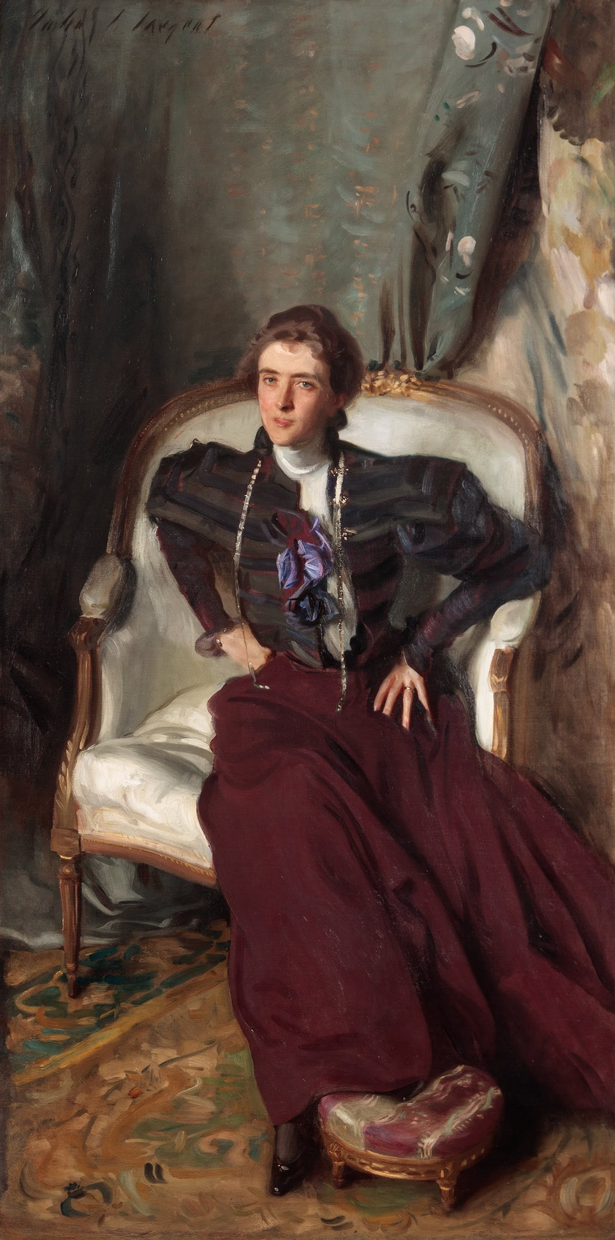
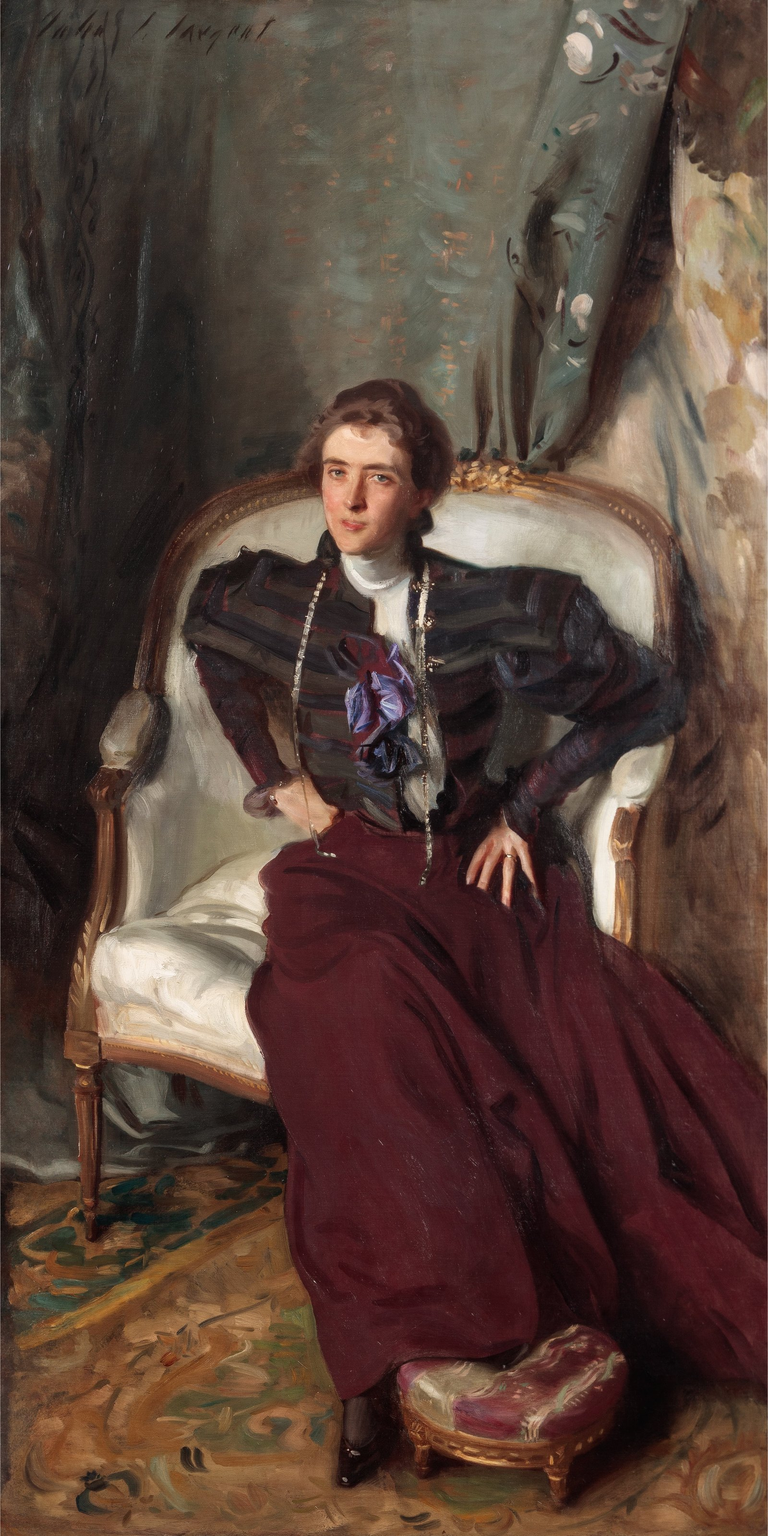
Mrs. Charles Thursby at full resolution, as zoom tiles
The painting is now 3184 x 6366 (every brushstroke and the canvas weave
show when zoomed in), served as a Deep Zoom pyramid so the viewer loads
only the tiles in view. Any painting can use one: tiles ending in .dzi
open as a pyramid, anything else as a single image as before.

The clue spots were re-measured against the new image, the eyebrow
pieces were placed on it exactly, and the separate sharp close-up of
her face is no longer needed (the face activity treats it as optional).

Claude-Session: https://claude.ai/code/session_01S4wwsUdvcBvdKa84k5387F

diff --git a/works.js b/works.js
@@ -40,13 +40,14 @@ window.MUSEUMS = [
 //     relight brightens a shadow's shape back to the lit color; patches cover it with nearby clean background
 //     (copied from sx,sy; a narrower source width sw is repeated across).
 //   face:{crop, erase, parts, up, down, presets, ask, rest, real, back} = move parts of a painted face (eyebrows).
-//     crop = a sharp close-up laid over the zoomed-in painting; parts = the painter's own strokes as see-through
+//     crop (optional) = a sharp close-up laid over the zoomed-in painting; parts = the painter's own strokes as see-through
 //     cut-outs (inner = which side is nearer the nose, line = where the stroke's middle runs at its inner end,
 //     middle and outer end, as fractions of the cut-out's height); erase = bare skin laid where they were painted;
 //     up, down = how far a point may go (fractions of the painting's height); presets = shapes to try, per part
 //     [inner, middle, outer], 1 = all the way up, -1 = all the way down; ask = questions shown in turn after a change.
 // Optional: role = its part in the visit (shown on the card), kind = "sculpture" etc. (default "painting"),
 // onView:false = not on display right now (card is darkened; still playable),
+// tiles = what the zoomable viewer opens: the image itself, or a .dzi zoom pyramid for a very detailed painting,
 // thumbPos = which part of a tall picture a wide thumbnail shows (CSS object-position; coverPos for a museum's cover).
 window.WORKS = [
   {
@@ -832,7 +833,7 @@ window.WORKS = [
     subtitle:"A bold pose, a purple bow, and two eyebrows that say a lot.",
     alt:"Mrs. Charles Thursby by John Singer Sargent: a woman in a dark striped jacket and a deep red skirt sits forward on the edge of a white armchair, hands on her hips, one foot on a footstool, looking straight at us",
     intro:"You've met Mrs. Thursby. Now let's look closely, from her shoes to her eyebrows.",
-    src:"images/mrs-charles-thursby.jpg", tiles:"images/mrs-charles-thursby.jpg", thumbPos:"50% 26%",
+    src:"images/mrs-charles-thursby.jpg", tiles:"images/mrs-charles-thursby.dzi", thumbPos:"50% 26%",
     music:"audio/salut-d-amour.mp3",
     prompts:[
       "Just look. This is Mrs. Thursby. She has been looking back at people for more than a hundred years.",
@@ -842,23 +843,21 @@ window.WORKS = [
       "Now look at the room around her. Which parts are sharp and clear? Which parts are quick and blurry?"
     ],
     stops:[
-      {find:"Can you find her purple bow?", cx:0.5, cy:0.455, box:{x:0.44, y:0.415, w:0.13, h:0.09}, title:"One bright spot", body:"Almost everything Mrs. Thursby wears is dark: a striped jacket and a deep red skirt. Then, right in the middle, a splash of purple! Sargent knew your eye would jump straight to it."},
-      {find:"Can you find the hand with a ring on it?", cx:0.65, cy:0.555, box:{x:0.59, y:0.52, w:0.12, h:0.075}, title:"Hands on her hips", body:"Both of her hands are on her hips, with her elbows poking out. Try it! How does it make you feel? Bossy? Brave? Ready for anything?"},
-      {find:"Can you find the little footstool?", cx:0.665, cy:0.915, box:{x:0.5, y:0.855, w:0.33, h:0.125}, title:"Ready to go", body:"One foot is up on a footstool, and she's sitting right on the edge of her chair. She isn't leaning back to rest. She looks like she might jump up any second. Where do you think she wants to go?"},
-      {find:"Can you find the long chain hanging from her neck?", cx:0.48, cy:0.46, box:{x:0.36, y:0.35, w:0.24, h:0.24}, areas:[{poly:[[0.395,0.362],[0.44,0.362],[0.425,0.45],[0.41,0.525],[0.37,0.525],[0.38,0.44]]},{x:0.532, y:0.362, w:0.045, h:0.22}], hint:"on both sides of her purple bow", title:"A long, long chain", body:"The chain loops around her neck and hangs all the way down to her waist. Look closely at how Sargent painted it: not link by link, but with quick little dashes of light paint."},
-      {find:"Can you find the white flowers on the curtain?", cx:0.76, cy:0.1, box:{x:0.66, y:0.0, w:0.24, h:0.26}, hint:"up high, on the right", title:"Flowers in a hurry", body:"From far away they're flowers. Up close, each one is only a few dabs of white paint! Sargent painted the room fast and loose, so that your eyes go to Mrs. Thursby instead."},
-      {find:"Sargent signed his name on this painting. Can you find it?", cx:0.2, cy:0.018, box:{x:0.0, y:0.0, w:0.42, h:0.07}, areas:[{x:0.02, y:0.0, w:0.36, h:0.04}], hint:"way up at the top, on the left", title:"John S. Sargent", body:"There it is, in the top corner, in dark paint on a dark wall: John S. Sargent. It almost hides in the shadows. He signed it with the same quick, loopy strokes he used for everything else."},
-      {find:"Sargent painted each eyebrow with one quick stroke. Drag them up or down, or tap a pair below. How does her face change?", cx:0.49, cy:0.304, box:{x:0.365, y:0.238, w:0.25, h:0.132},
+      {find:"Can you find her purple bow?", cx:0.4993, cy:0.4568, box:{x:0.4394, y:0.4166, w:0.1297, h:0.0904}, title:"One bright spot", body:"Almost everything Mrs. Thursby wears is dark: a striped jacket and a deep red skirt. Then, right in the middle, a splash of purple! Sargent knew your eye would jump straight to it."},
+      {find:"Can you find the hand with a ring on it?", cx:0.649, cy:0.5571, box:{x:0.5891, y:0.522, w:0.1198, h:0.0753}, title:"Hands on her hips", body:"Both of her hands are on her hips, with her elbows poking out. Try it! How does it make you feel? Bossy? Brave? Ready for anything?"},
+      {find:"Can you find the little footstool?", cx:0.664, cy:0.9185, box:{x:0.4993, y:0.8583, w:0.3293, h:0.1255}, title:"Ready to go", body:"One foot is up on a footstool, and she's sitting right on the edge of her chair. She isn't leaning back to rest. She looks like she might jump up any second. Where do you think she wants to go?"},
+      {find:"Can you find the long chain hanging from her neck?", cx:0.4793, cy:0.4618, box:{x:0.3596, y:0.3513, w:0.2395, h:0.2409}, areas:[{poly:[[0.3945,0.3634],[0.4394,0.3634],[0.4244,0.4517],[0.4095,0.527],[0.3696,0.527],[0.3795,0.4417]]},{x:0.5312, y:0.3634, w:0.0449, h:0.2209}], hint:"on both sides of her purple bow", title:"A long, long chain", body:"The chain loops around her neck and hangs all the way down to her waist. Look closely at how Sargent painted it: not link by link, but with quick little dashes of light paint."},
+      {find:"Can you find the white flowers on the curtain?", cx:0.7588, cy:0.1004, box:{x:0.659, y:0, w:0.2395, h:0.261}, hint:"up high, on the right", title:"Flowers in a hurry", body:"From far away they're flowers. Up close, each one is only a few dabs of white paint! Sargent painted the room fast and loose, so that your eyes go to Mrs. Thursby instead."},
+      {find:"Sargent signed his name on this painting. Can you find it?", cx:0.1999, cy:0.018, box:{x:0.0003, y:0, w:0.4192, h:0.0703}, areas:[{x:0.0203, y:0, w:0.3593, h:0.0402}], hint:"way up at the top, on the left", title:"John S. Sargent", body:"There it is, in the top corner, in dark paint on a dark wall: John S. Sargent. It almost hides in the shadows. He signed it with the same quick, loopy strokes he used for everything else."},
+      {find:"Sargent painted each eyebrow with one quick stroke. Drag them up or down, or tap a pair below. How does her face change?", cx:0.4893, cy:0.3052, box:{x:0.3646, y:0.2389, w:0.2495, h:0.1325},
         face:{ real:"Sargent's", back:"Put them back", rest:"These are the eyebrows Sargent painted.",
           ask:["How does she feel now?", "What is she thinking now?", "What would she say now?"],
-          // a sharp close-up of her face (soft at the edges), and where it sits on the painting
-          crop:{src:"images/thursby-face.webp", x:0.31543, y:0.20563, w:0.34689, h:0.19545},
           // bare skin for the place the eyebrows were painted
-          erase:{src:"images/thursby-brow-erase.png", x:0.41509, y:0.2946, w:0.10754, h:0.01267},
-          up:0.00813, down:0.00219,
+          erase:{src:"images/thursby-brow-erase.png", x:0.4146, y:0.2959, w:0.1071, h:0.0127},
+          up:0.0082, down:0.0022,
           // Sargent's two strokes: the one on our left, then the one on our right
-          parts:[ {src:"images/thursby-brow-l.png", x:0.41666, y:0.29538, w:0.04447, h:0.00751, inner:"right", line:[0.783,0.477,0.578]},
-                  {src:"images/thursby-brow-r.png", x:0.4709, y:0.29913, w:0.05046, h:0.00766, inner:"left", line:[0.488,0.439,0.613]} ],
+          parts:[ {src:"images/thursby-brow-l.png", x:0.4161, y:0.2967, w:0.0443, h:0.0075, inner:"right", line:[0.783,0.477,0.578]},
+                  {src:"images/thursby-brow-r.png", x:0.4702, y:0.3005, w:0.0503, h:0.0077, inner:"left", line:[0.488,0.439,0.613]} ],
           // shapes to try: both up and arched; inner ends down; inner ends up; one up and one down
           presets:[ [[0.75,1,0.6],[0.75,1,0.6]], [[-1,-0.35,0.55],[-1,-0.35,0.55]], [[0.85,0.3,-0.7],[0.85,0.3,-0.7]], [[0.5,0.9,0.6],[-0.8,-0.6,-0.3]] ] },
         title:"Two little strokes", body:"Eyebrows are tiny, but they do a lot of talking. Up high, and a face looks surprised. Down in the middle, grumpy. Up in the middle, worried. Sargent set Mrs. Thursby's low and steady, the way you look when you're sure of yourself."}

diff --git a/index.html b/index.html
@@ -7,7 +7,7 @@
 <script>
   // The app's version. When a newer one is published, a phone may still have this page saved;
   // version.json is always fetched fresh, and if it's newer the page reloads itself once.
-  window.APP_VERSION = "2026-11-12a";
+  window.APP_VERSION = "2026-11-12b";
   (function(){
     try{
       fetch("version.json?t=" + Date.now(), { cache:"no-store" }).then(function(r){ return r.ok ? r.json() : null; }).then(function(v){
@@ -19,7 +19,7 @@
     }catch(_){}
   })();
 </script>
-<script src="works.js?v=2026-11-12a"></script>
+<script src="works.js?v=2026-11-12b"></script>
 <title>A Looking Game</title>
 <style>
   :root{
@@ -799,7 +799,9 @@
     });
     return osd;
   }
-  function osdLoad(){ if(ensureOSD()){ osd.open({ type:"image", url: currentPainting.tiles }); } }
+  // a painting's tiles: one image, or (.dzi) a zoom pyramid, so a very detailed painting loads only the parts in view
+  function tileSource(p){ return /\.dzi$/.test(p.tiles) ? p.tiles : { type:"image", url:p.tiles }; }
+  function osdLoad(){ if(ensureOSD()){ osd.open(tileSource(currentPainting)); } }
   function ensureOSDLook(){
     if(osdLook || typeof OpenSeadragon === "undefined") return osdLook;
     osdLook = OpenSeadragon(osdConfig("osdLook"));
@@ -807,7 +809,7 @@
     osdLook.addHandler("open", function(){ requestAnimationFrame(function(){ try{ osdLook.viewport.goHome(true); }catch(_){} }); });
     return osdLook;
   }
-  function osdLookLoad(){ if(ensureOSDLook()){ osdLook.open({ type:"image", url: currentPainting.tiles }); } }
+  function osdLookLoad(){ if(ensureOSDLook()){ osdLook.open(tileSource(currentPainting)); } }
   function osdImgSize(){ var it = osd && osd.world.getItemAt(0); return it ? it.getContentSize() : null; }
   function osdHome(){ if(osd){ try{ osd.viewport.goHome(true); }catch(_){} } }
   function clearOverlays(){
@@ -2376,8 +2378,8 @@
      Each part is the painter's own stroke as a see-through cut-out, with three points (inner end,
      middle, outer end) that slide up and down. Every column of the cut-out slides with them, so
      the stroke tilts and bends but stays the painter's brushwork. A patch of bare skin covers the
-     place the strokes were painted, and a sharp close-up of the face lies over the zoomed-in
-     painting. With every point back at zero nothing is redrawn: the real painting shows.
+     place the strokes were painted (and, optionally, a sharp close-up of the face lies over the zoomed-in
+     painting). With every point back at zero nothing is redrawn: the real painting shows.
      Places are fractions of the painting. up, down: how far a point may travel (fractions of its
      height). A part's line: where the stroke's middle runs at its three points (fractions of the
      cut-out's height). Presets, per part: [inner, middle, outer], 1 = all the way up, -1 = down. */
@@ -2391,7 +2393,7 @@
     var cfg = s.face;
     act.mode = "face"; face.cfg = cfg; face.moves = 0; face.asked = 0;
     face.vals = cfg.parts.map(function(){ return [0, 0, 0]; });
-    face.crop = faceImg(cfg.crop.src); face.erase = faceImg(cfg.erase.src);
+    face.crop = cfg.crop ? faceImg(cfg.crop.src) : null; face.erase = faceImg(cfg.erase.src);
     face.imgs = cfg.parts.map(function(p){ return faceImg(p.src); });
     $("faceBack").textContent = cfg.back || "Put them back";
     renderFacePresets();
@@ -2445,7 +2447,7 @@
     var ctx = act.ctx, cfg = face.cfg, sz = osdImgSize(); if(!sz) return;
     var R = paintingRect(), cut = face.compare ? R.x0 + (R.x1 - R.x0) * face.split : R.x1;
     ctx.imageSmoothingEnabled = true; ctx.imageSmoothingQuality = "high";
-    facePiece(ctx, face.crop, cfg.crop, sz); // the sharp close-up, exactly as painted
+    if(cfg.crop){ facePiece(ctx, face.crop, cfg.crop, sz); } // a sharp close-up, for a painting whose tiles aren't
     if(!faceAtRest() && faceLoaded()){
       ctx.save(); // yours shows left of the divider, the real painting right of it
       ctx.beginPath(); ctx.rect(R.x0 - 2, R.y0 - 2, Math.max(0, cut - R.x0 + 2), R.y1 - R.y0 + 4); ctx.clip();
@@ -3356,7 +3358,7 @@
   }
   function enterTune(){
     show("tune"); state.tuneIndex=0; state.tunePts=clonePts();
-    requestAnimationFrame(function(){ if(ensureOSDTune()){ osdTune.open({ type:"image", url: currentPainting.tiles }); } });
+    requestAnimationFrame(function(){ if(ensureOSDTune()){ osdTune.open(tileSource(currentPainting)); } });
     renderTune();
   }
   function onTuneTap(e){
